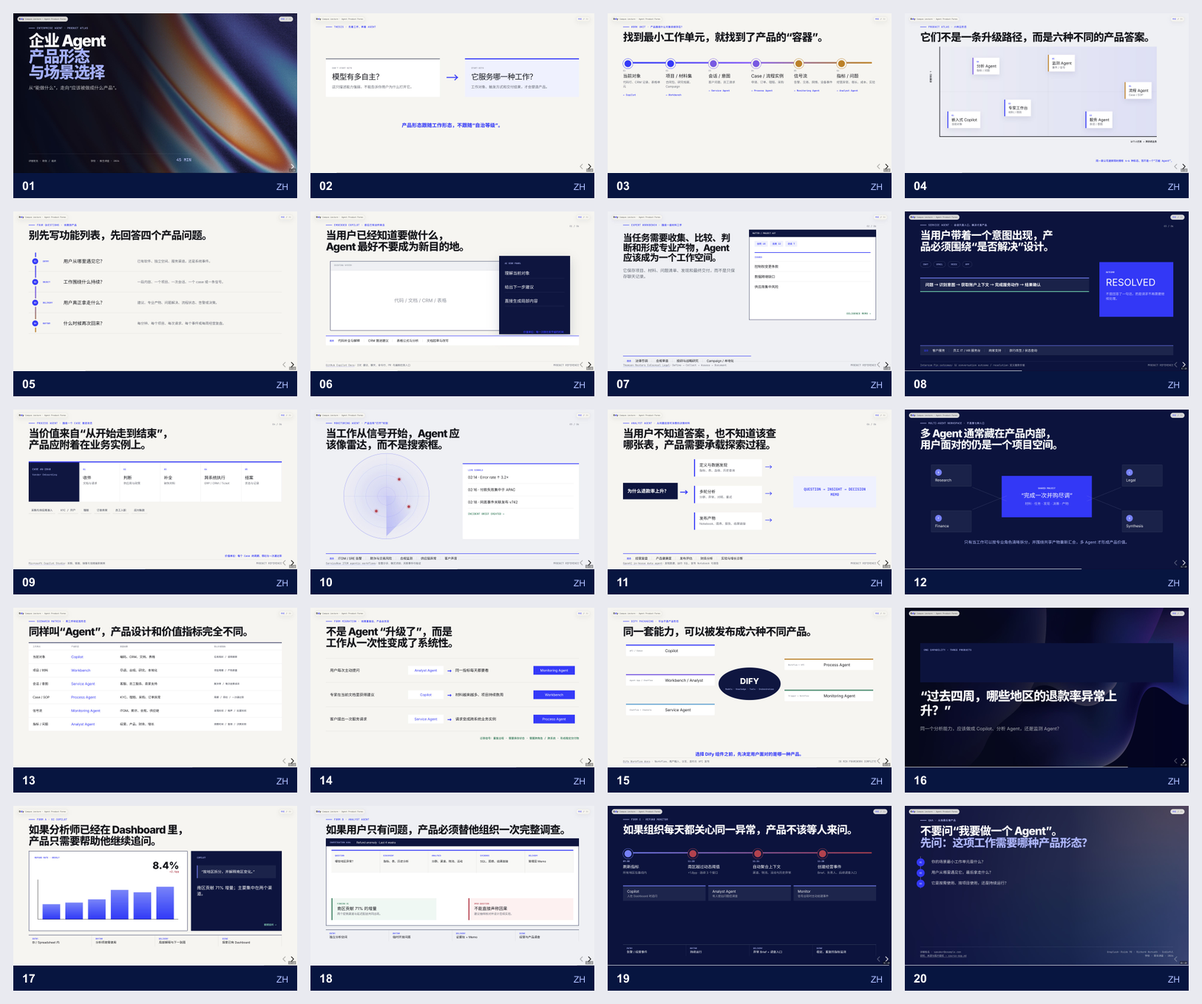
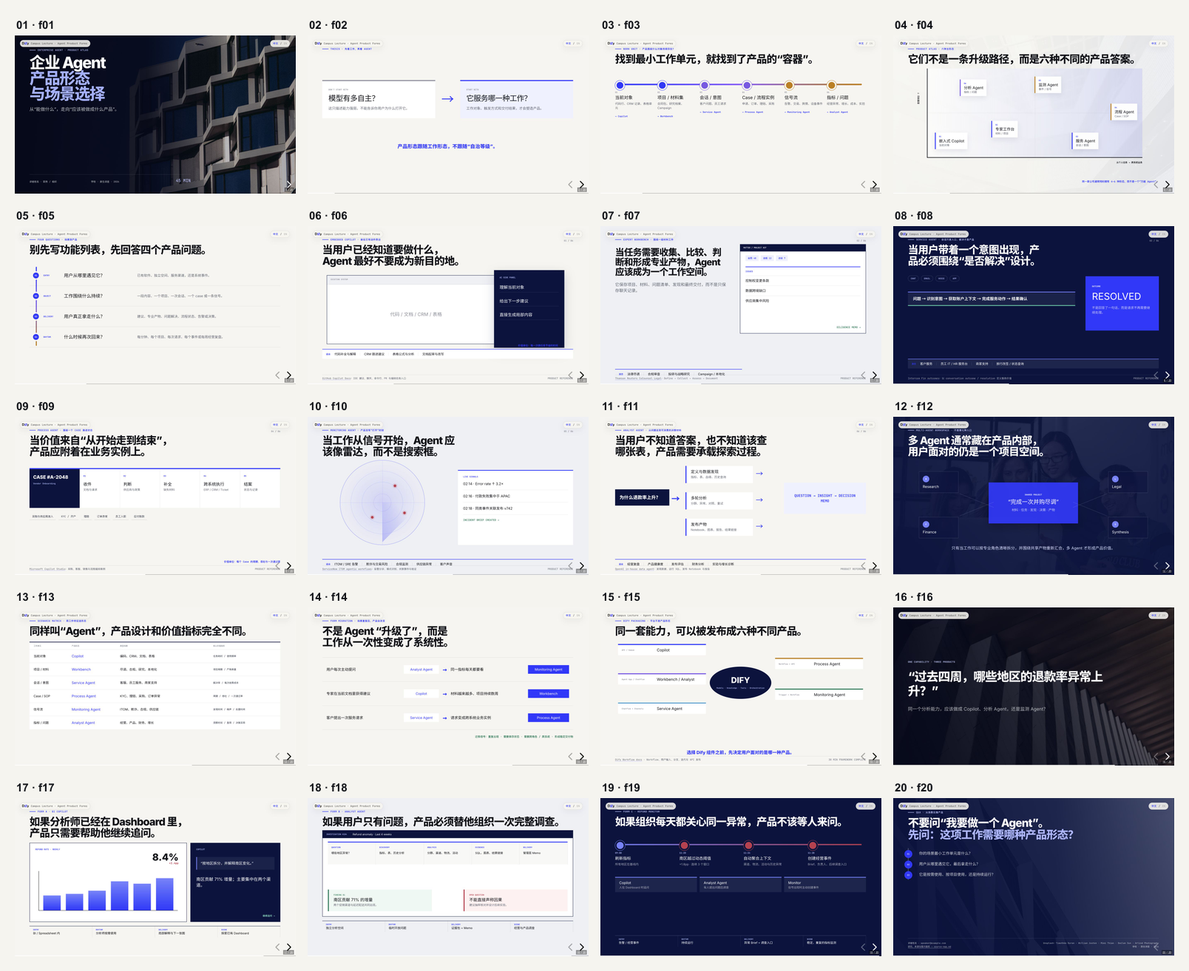
Refresh enterprise agent deck backgrounds

diff --git a/enterprise-agent-campus/styles.css b/enterprise-agent-campus/styles.css
@@ -2,13 +2,13 @@
 *{box-sizing:border-box}html,body{width:100%;height:100%;margin:0;overflow:hidden;background:var(--paper)}body{font-family:var(--sans);-webkit-font-smoothing:antialiased;text-rendering:optimizeLegibility}a{color:inherit}.deck-brand,.lang-switch{position:fixed;z-index:40;top:22px;display:flex;align-items:center;gap:10px;border:1px solid rgba(17,19,24,.12);border-radius:999px;background:rgba(246,245,240,.88);box-shadow:0 8px 30px rgba(7,21,64,.06);backdrop-filter:blur(16px);font:600 12px/1 var(--mono);letter-spacing:.035em;color:rgba(17,19,24,.64)}.deck-brand{left:28px;padding:8px 13px 8px 10px}.deck-brand img{width:32px;height:16px;object-fit:contain}.lang-switch{right:28px;padding:10px 13px}.lang-switch a{text-decoration:none;opacity:.45}.lang-switch a.active{opacity:1;color:var(--blue)}
 .reveal{color:var(--ink);font-family:var(--sans)}.reveal .slides{text-align:left}.reveal .slides section{width:1920px;height:1080px;padding:var(--top) var(--x) var(--bottom);overflow:hidden;background:var(--paper)}.reveal h1,.reveal h2,.reveal p,.reveal blockquote{margin:0;color:inherit;font-family:var(--sans);text-transform:none;text-shadow:none}.reveal h1{font-size:108px;line-height:.99;font-weight:800;letter-spacing:-.052em}.reveal h2{max-width:1660px;font-size:72px;line-height:1.06;font-weight:780;letter-spacing:-.043em;text-wrap:balance}.reveal p{font-size:28px;line-height:1.46}.reveal small{font-size:inherit}.reveal .fragment{will-change:opacity,transform}.reveal .fragment.fade-up{transform:translateY(18px)}.reveal .fragment.fade-up.visible{transform:none}.eyebrow{display:flex;align-items:center;gap:14px;margin-bottom:23px;color:var(--blue);font:700 16px/1 var(--mono);letter-spacing:.075em;text-transform:uppercase}.eyebrow:before{content:"";width:42px;height:3px;background:currentColor}.eyebrow.on-dark{color:#b9c5ff}.form-index{position:absolute;right:104px;top:92px;color:var(--quiet);font:700 15px/1 var(--mono)}.form-index.on-dark{color:rgba(255,255,255,.55)}.source-bar{position:absolute;left:var(--x);right:var(--x);bottom:29px;display:flex;align-items:center;justify-content:space-between;gap:28px;padding-top:12px;border-top:1px solid var(--line);color:#747b87;font:500 17px/1.35 var(--mono)}.source-bar span:first-child{max-width:1440px}.source-bar a{text-underline-offset:4px;text-decoration-color:rgba(20,60,255,.35)}.dark-source{border-color:rgba(255,255,255,.18);color:rgba(255,255,255,.55)}.photo-bg{position:absolute;inset:0;width:100%;height:100%;object-fit:cover}.form-kpi{position:absolute;right:104px;bottom:82px;color:var(--blue);font:700 17px/1 var(--mono)}
 /* cover */
-.cover-slide{padding:0!important;background:#04091b!important;color:white}.cover-slide .photo-bg{object-position:57% center;filter:saturate(.88) contrast(1.06)}.cover-shade{position:absolute;inset:0;background:linear-gradient(90deg,rgba(4,8,25,.99) 0%,rgba(4,8,25,.92) 45%,rgba(4,8,25,.22) 78%,rgba(4,8,25,.32) 100%)}.cover-copy{position:relative;z-index:2;height:100%;padding:92px 104px 70px;display:flex;flex-direction:column;justify-content:space-between}.cover-copy h1{width:1080px}.cover-copy h1 span{color:#9fb1ff}.cover-copy>div>p{width:850px;margin-top:30px;color:rgba(255,255,255,.74);font-size:31px}.cover-meta{display:grid;grid-template-columns:420px 420px 1fr;align-items:end;width:1100px;padding-top:22px;border-top:1px solid rgba(255,255,255,.23);color:rgba(255,255,255,.64);font:500 16px/1.4 var(--mono)}.cover-meta b{color:#b9c5ff;font-size:28px;text-align:right}
+.cover-slide{padding:0!important;background:#04091b!important;color:white}.cover-slide .photo-bg{object-position:50% 56%;filter:saturate(.82) contrast(1.08)}.cover-shade{position:absolute;inset:0;background:linear-gradient(90deg,rgba(4,8,25,.99) 0%,rgba(4,8,25,.91) 47%,rgba(4,8,25,.28) 76%,rgba(4,8,25,.35) 100%)}.cover-copy{position:relative;z-index:2;height:100%;padding:92px 104px 70px;display:flex;flex-direction:column;justify-content:space-between}.cover-copy h1{width:1080px}.cover-copy h1 span{color:#9fb1ff}.cover-copy>div>p{width:850px;margin-top:30px;color:rgba(255,255,255,.74);font-size:31px}.cover-meta{display:grid;grid-template-columns:420px 420px 1fr;align-items:end;width:1100px;padding-top:22px;border-top:1px solid rgba(255,255,255,.23);color:rgba(255,255,255,.64);font:500 16px/1.4 var(--mono)}.cover-meta b{color:#b9c5ff;font-size:28px;text-align:right}
 /* 02 */
 .form-thesis{display:grid;grid-template-columns:1fr 170px 1fr;align-items:center;height:560px;margin-top:55px}.thesis-left,.thesis-right{padding:50px 42px;border-top:7px solid var(--quiet);background:white}.thesis-right{border-color:var(--blue);background:#eef1ff}.form-thesis small{color:var(--quiet);font:700 14px/1 var(--mono)}.form-thesis strong{display:block;margin-top:24px;font-size:51px;line-height:1.08;letter-spacing:-.035em}.form-thesis p{margin-top:24px;color:var(--muted);font-size:24px}.thesis-arrow{color:var(--blue);font-size:86px;text-align:center}.thesis-verdict{margin-top:25px;color:var(--blue);font-size:34px;font-weight:750;text-align:center}
 /* 03 */
 .unit-spine{position:relative;display:grid;grid-template-columns:repeat(6,1fr);gap:22px;margin-top:92px}.unit-line{position:absolute;left:28px;right:28px;top:38px;height:10px;border-radius:999px;background:linear-gradient(90deg,var(--blue),#8758ff,var(--amber))}.unit{position:relative;padding-top:88px}.unit:before{content:"";position:absolute;left:0;top:16px;width:46px;height:46px;border:10px solid var(--paper);border-radius:50%;background:var(--blue);box-shadow:0 0 0 2px var(--blue)}.unit:nth-of-type(4):before,.unit:nth-of-type(5):before{background:#7758e8;box-shadow:0 0 0 2px #7758e8}.unit:nth-of-type(6):before,.unit:nth-of-type(7):before{background:var(--amber);box-shadow:0 0 0 2px var(--amber)}.unit span{color:var(--quiet);font:700 14px/1 var(--mono)}.unit strong{display:block;margin-top:13px;font-size:30px}.unit p{margin-top:13px;color:var(--muted);font-size:20px}.unit b{display:block;margin-top:32px;color:var(--blue);font:700 16px/1.3 var(--mono)}
 /* 04 */
-.atlas-slide{background:#eef0f4!important}.atlas-map{position:relative;width:1470px;height:610px;margin:26px 0 0 130px;border-left:4px solid var(--ink);border-bottom:4px solid var(--ink);background:linear-gradient(90deg,rgba(20,60,255,.02),rgba(20,60,255,.09))}.atlas-map:before,.atlas-map:after{content:"";position:absolute;background:rgba(17,19,24,.1)}.atlas-map:before{left:0;right:0;top:50%;height:1px}.atlas-map:after{top:0;bottom:0;left:50%;width:1px}.atlas-axis{position:absolute;font:700 15px/1 var(--mono)}.atlas-axis.y{left:-70px;top:165px;writing-mode:vertical-rl;transform:rotate(180deg)}.atlas-axis.x{right:0;bottom:-43px}.atlas-dot{position:absolute;padding:18px 22px;border-left:6px solid var(--blue);background:white;box-shadow:0 14px 35px rgba(7,21,64,.09)}.atlas-dot span{color:var(--blue);font:700 13px/1 var(--mono)}.atlas-dot strong{display:block;margin-top:10px;font-size:26px}.atlas-dot small{display:block;margin-top:7px;color:var(--muted);font-size:18px}.ad1{left:50px;bottom:55px}.ad2{left:435px;bottom:135px}.ad3{right:300px;bottom:55px}.ad4{right:35px;top:240px;border-color:var(--amber)}.ad5{left:730px;top:55px;border-color:var(--amber)}.ad6{left:220px;top:75px;border-color:#7758e8}.atlas-note{position:absolute;right:104px;bottom:74px;color:var(--blue);font:700 17px/1 var(--mono)}
+.atlas-slide{background:#eef0f4!important}.atlas-photo{object-position:center 42%;filter:grayscale(.2) saturate(.62) contrast(.96);opacity:.3}.atlas-veil{position:absolute;inset:0;background:linear-gradient(90deg,rgba(247,246,242,.97) 0%,rgba(247,246,242,.9) 50%,rgba(238,240,244,.78) 100%)}.atlas-slide>*:not(.atlas-photo):not(.atlas-veil){position:relative;z-index:2}.atlas-map{position:relative;width:1470px;height:610px;margin:26px 0 0 130px;border-left:4px solid var(--ink);border-bottom:4px solid var(--ink);background:linear-gradient(90deg,rgba(255,255,255,.66),rgba(20,60,255,.11));backdrop-filter:blur(5px)}.atlas-map:before,.atlas-map:after{content:"";position:absolute;background:rgba(17,19,24,.1)}.atlas-map:before{left:0;right:0;top:50%;height:1px}.atlas-map:after{top:0;bottom:0;left:50%;width:1px}.atlas-axis{position:absolute;font:700 15px/1 var(--mono)}.atlas-axis.y{left:-70px;top:165px;writing-mode:vertical-rl;transform:rotate(180deg)}.atlas-axis.x{right:0;bottom:-43px}.atlas-dot{position:absolute;padding:18px 22px;border-left:6px solid var(--blue);background:rgba(255,255,255,.94);box-shadow:0 14px 35px rgba(7,21,64,.09)}.atlas-dot span{color:var(--blue);font:700 13px/1 var(--mono)}.atlas-dot strong{display:block;margin-top:10px;font-size:26px}.atlas-dot small{display:block;margin-top:7px;color:var(--muted);font-size:18px}.ad1{left:50px;bottom:55px}.ad2{left:435px;bottom:135px}.ad3{right:300px;bottom:55px}.ad4{right:35px;top:240px;border-color:var(--amber)}.ad5{left:730px;top:55px;border-color:var(--amber)}.ad6{left:220px;top:75px;border-color:#7758e8}.atlas-note{position:absolute!important;right:104px;bottom:74px;color:var(--blue);font:700 17px/1 var(--mono)}
 /* 05 */
 .question-route{position:relative;margin-top:68px}.route-line{position:absolute;left:43px;top:10px;bottom:10px;width:7px;border-radius:7px;background:linear-gradient(var(--blue),#7758e8,var(--amber))}.route-q{position:relative;display:grid;grid-template-columns:80px 140px 500px 1fr;align-items:center;min-height:140px;padding-left:15px;border-bottom:1px solid var(--line)}.route-q>span{position:relative;z-index:2;display:grid;place-items:center;width:58px;height:58px;border:9px solid var(--paper);border-radius:50%;background:var(--blue);color:white;font:700 14px/1 var(--mono)}.route-q small{color:var(--blue);font:700 14px/1 var(--mono)}.route-q strong{font-size:31px}.route-q p{color:var(--muted);font-size:23px}
 /* shared ribbons */
@@ -26,7 +26,7 @@
 /* 11 */
 .analysis-tree{position:relative;height:560px;margin-top:35px}.analysis-question{position:absolute;left:0;top:185px;width:370px;padding:40px 30px;background:var(--navy);color:white;font-size:31px;font-weight:740}.analysis-question:after{content:"→";position:absolute;right:-72px;top:35px;color:var(--blue);font-size:58px}.branch{position:absolute;left:480px;width:460px;padding:26px 30px;border-left:7px solid var(--blue);background:white}.branch strong{font-size:27px}.branch p{margin-top:9px;color:var(--muted);font-size:20px}.b1{top:25px}.b2{top:205px}.b3{top:385px}.branch:after{content:"→";position:absolute;right:-70px;top:28px;color:var(--blue);font-size:50px}.analysis-delivery{position:absolute;right:0;top:140px;width:560px;padding:70px 40px;background:#eef1ff;color:var(--blue);font:800 24px/1.5 var(--mono);text-align:center}.analyst-scenes{bottom:42px;background:transparent}
 /* 12 */
-.multi-slide{background:var(--navy)!important;color:white}.multi-slide h2{color:white}.project-room{position:relative;height:590px;margin-top:18px}.shared-artifact{position:absolute;left:50%;top:155px;width:610px;height:280px;transform:translateX(-50%);display:flex;flex-direction:column;justify-content:center;padding:48px;background:var(--blue);text-align:center}.shared-artifact small{font:700 14px/1 var(--mono)}.shared-artifact strong{margin-top:22px;font-size:39px}.shared-artifact p{margin-top:20px;color:rgba(255,255,255,.72);font-size:22px}.role{position:absolute;width:270px;padding:28px 25px;border:1px solid rgba(255,255,255,.24);background:rgba(255,255,255,.06)}.role span{display:grid;place-items:center;width:45px;height:45px;border-radius:50%;background:#6f83ff;font:700 15px/1 var(--mono)}.role strong{display:block;margin-top:17px;font-size:25px}.rr1{left:75px;top:80px}.rr2{right:75px;top:80px}.rr3{left:75px;bottom:55px}.rr4{right:75px;bottom:55px}.role:after{content:"";position:absolute;width:250px;height:1px;background:rgba(255,255,255,.32)}.rr1:after{right:-250px;bottom:-55px;transform:rotate(22deg)}.rr2:after{left:-250px;bottom:-55px;transform:rotate(-22deg)}.rr3:after{right:-250px;top:-55px;transform:rotate(-22deg)}.rr4:after{left:-250px;top:-55px;transform:rotate(22deg)}.multi-rule{color:#aebeff;font-size:27px;text-align:center}
+.multi-slide{background:var(--navy)!important;color:white}.multi-photo{object-position:center 44%;filter:grayscale(.15) saturate(.72) contrast(1.06)}.multi-shade{position:absolute;inset:0;background:linear-gradient(90deg,rgba(7,21,64,.95),rgba(7,21,64,.84) 48%,rgba(7,21,64,.9)),linear-gradient(0deg,rgba(7,21,64,.7),rgba(7,21,64,.18))}.multi-slide>*:not(.multi-photo):not(.multi-shade){position:relative;z-index:2}.multi-slide h2{color:white}.project-room{position:relative;height:590px;margin-top:18px}.shared-artifact{position:absolute;left:50%;top:155px;width:610px;height:280px;transform:translateX(-50%);display:flex;flex-direction:column;justify-content:center;padding:48px;background:rgba(20,60,255,.92);box-shadow:0 24px 60px rgba(0,0,0,.24);text-align:center;backdrop-filter:blur(7px)}.shared-artifact small{font:700 14px/1 var(--mono)}.shared-artifact strong{margin-top:22px;font-size:39px}.shared-artifact p{margin-top:20px;color:rgba(255,255,255,.72);font-size:22px}.role{position:absolute;width:270px;padding:28px 25px;border:1px solid rgba(255,255,255,.3);background:rgba(7,21,64,.62);backdrop-filter:blur(10px)}.role span{display:grid;place-items:center;width:45px;height:45px;border-radius:50%;background:#6f83ff;font:700 15px/1 var(--mono)}.role strong{display:block;margin-top:17px;font-size:25px}.rr1{left:75px;top:80px}.rr2{right:75px;top:80px}.rr3{left:75px;bottom:55px}.rr4{right:75px;bottom:55px}.role:after{content:"";position:absolute;width:250px;height:1px;background:rgba(255,255,255,.32)}.rr1:after{right:-250px;bottom:-55px;transform:rotate(22deg)}.rr2:after{left:-250px;bottom:-55px;transform:rotate(-22deg)}.rr3:after{right:-250px;top:-55px;transform:rotate(-22deg)}.rr4:after{left:-250px;top:-55px;transform:rotate(22deg)}.multi-rule{color:#d7deff;font-size:27px;text-align:center}
 /* 13 */
 .form-matrix{margin-top:35px;border-top:4px solid var(--navy);background:white}.fm-head,.fm-row{display:grid;grid-template-columns:260px 330px 1fr 430px;align-items:center;padding:0 28px}.fm-head{height:48px;color:var(--quiet);font:700 13px/1 var(--mono)}.fm-row{min-height:91px;border-top:1px solid var(--line)}.fm-row b{font-size:21px}.fm-row strong{color:var(--blue);font-size:24px}.fm-row p{font-size:21px}.fm-row em{color:var(--muted);font:600 16px/1.25 var(--mono);font-style:normal}
 /* 14 */
@@ -34,7 +34,7 @@
 /* 15 */
 .dify-metro{position:relative;height:590px;margin-top:20px}.dify-core{position:absolute;left:50%;top:185px;width:420px;height:220px;transform:translateX(-50%);display:flex;flex-direction:column;justify-content:center;border-radius:50%;background:var(--navy);color:white;font-size:55px;font-weight:800;text-align:center}.dify-core small{margin-top:18px;color:#aebeff;font:600 13px/1.4 var(--mono)}.metro-line{position:absolute;display:grid;grid-template-columns:240px 1fr;align-items:center;width:600px;padding:22px 25px;border-top:7px solid var(--blue);background:white}.metro-line span{color:var(--quiet);font:700 13px/1.2 var(--mono)}.metro-line strong{font-size:26px}.ml1{left:20px;top:30px}.ml2{left:20px;top:230px}.ml3{left:20px;top:430px}.ml4{right:20px;top:125px}.ml5{right:20px;top:335px}.ml2{border-color:#7758e8}.ml3{border-color:#43a6d4}.ml4{border-color:var(--amber)}.ml5{border-color:var(--green)}.packaging-verdict{position:absolute;left:50%;bottom:75px;transform:translateX(-50%);color:var(--blue);font-size:30px;font-weight:740;white-space:nowrap}
 /* 16 */
-.case-cover{padding:0!important;background:#05091b!important;color:white}.case-cover .photo-bg{filter:saturate(.82) contrast(1.08)}.case-shade{position:absolute;inset:0;background:linear-gradient(90deg,rgba(5,9,27,.98),rgba(5,9,27,.76) 65%,rgba(5,9,27,.38))}.case-copy{position:relative;z-index:2;height:100%;padding:120px 104px;display:flex;flex-direction:column;justify-content:center}.case-label{color:#aebeff;font:700 16px/1 var(--mono);letter-spacing:.05em}.case-copy blockquote{width:1500px;margin-top:44px;font-size:84px;line-height:1.16;font-weight:760;letter-spacing:-.045em}.case-copy p{margin-top:52px;color:rgba(255,255,255,.68);font-size:31px}
+.case-cover{padding:0!important;background:#05091b!important;color:white}.case-cover .photo-bg{object-position:center 54%;filter:saturate(.7) contrast(1.08)}.case-shade{position:absolute;inset:0;background:linear-gradient(90deg,rgba(5,9,27,.98),rgba(5,9,27,.78) 62%,rgba(5,9,27,.42)),linear-gradient(0deg,rgba(5,9,27,.45),transparent)}.case-copy{position:relative;z-index:2;height:100%;padding:120px 104px;display:flex;flex-direction:column;justify-content:center}.case-copy .case-label{min-height:0;padding:0;border:0;background:transparent;color:#c3ceff;font:700 16px/1 var(--mono);letter-spacing:.05em}.case-copy blockquote{width:1500px;margin-top:44px;font-size:84px;line-height:1.16;font-weight:760;letter-spacing:-.045em}.case-copy p{margin-top:52px;color:rgba(255,255,255,.7);font-size:31px}
 /* 17 */
 .bi-shell{display:grid;grid-template-columns:1.4fr .8fr;gap:24px;height:540px;margin-top:30px}.dashboard,.bi-copilot{position:relative;padding:34px 38px;border:2px solid var(--navy);background:white}.dashboard>small,.bi-copilot>small{color:var(--blue);font:700 14px/1 var(--mono)}.chart{position:absolute;left:60px;right:60px;bottom:75px;height:270px;display:flex;align-items:end;gap:35px;border-left:2px solid var(--ink);border-bottom:2px solid var(--ink);padding:0 30px}.chart i{flex:1;height:var(--h);background:linear-gradient(var(--blue2),var(--blue))}.dash-metric{position:absolute;right:55px;top:62px;font-size:66px;font-weight:800}.dash-metric span{display:block;color:var(--red);font:700 18px/1 var(--mono);text-align:right}.bi-copilot{background:var(--navy);color:white}.bi-copilot small{color:#aebeff}.bi-copilot p{margin-top:45px;padding:25px;border-left:5px solid #6e82ff;background:rgba(255,255,255,.06);font-size:25px}.bi-copilot strong{display:block;margin-top:45px;font-size:29px;line-height:1.4}.bi-copilot div{position:absolute;right:35px;bottom:32px;color:#74e3bf;font:700 16px/1 var(--mono)}.product-spec{display:grid;grid-template-columns:repeat(4,1fr);margin-top:28px;border-top:2px solid var(--navy)}.product-spec span{padding:17px 25px;border-right:1px solid var(--line);font-size:20px}.product-spec small{display:block;margin-bottom:8px;color:var(--blue);font:700 13px/1 var(--mono)}
 /* 18 */
@@ -42,5 +42,5 @@
 /* 19 */
 .monitor-case-slide{background:var(--navy)!important;color:white}.monitor-case-slide h2{color:white}.monitor-timeline{position:relative;display:grid;grid-template-columns:repeat(4,1fr);gap:42px;margin-top:72px}.timeline-line{position:absolute;left:30px;right:30px;top:42px;height:8px;background:linear-gradient(90deg,#6f83ff,var(--red))}.time-event{position:relative;padding-top:95px}.time-event:before{content:"";position:absolute;left:0;top:18px;width:48px;height:48px;border:10px solid var(--navy);border-radius:50%;background:#6f83ff;box-shadow:0 0 0 2px #6f83ff}.time-event:nth-of-type(n+3):before{background:var(--red);box-shadow:0 0 0 2px var(--red)}.time-event span{color:#aebeff;font:700 15px/1 var(--mono)}.time-event strong{display:block;margin-top:16px;font-size:27px}.time-event p{margin-top:12px;color:rgba(255,255,255,.62);font-size:20px}.three-form-compare{display:grid;grid-template-columns:repeat(3,1fr);gap:18px;margin-top:72px}.three-form-compare div{padding:23px 28px;border-top:5px solid #6f83ff;background:rgba(255,255,255,.07)}.three-form-compare b{font-size:24px}.three-form-compare span{display:block;margin-top:10px;color:rgba(255,255,255,.62);font-size:19px}.dark-spec{position:absolute;left:104px;right:104px;bottom:65px;border-color:rgba(255,255,255,.22)}.dark-spec span{border-color:rgba(255,255,255,.15)}.dark-spec small{color:#aebeff}
 /* 20 */
-.closing-slide{padding:0!important;background:var(--navy)!important;color:white}.closing-slide .photo-bg{filter:saturate(.7)}.closing-shade{position:absolute;inset:0;background:linear-gradient(90deg,rgba(7,21,64,.98),rgba(7,21,64,.9) 58%,rgba(7,21,64,.68))}.closing-copy{position:relative;z-index:2;height:100%;padding:90px 104px 64px}.closing-copy h2{color:white;max-width:1600px;font-size:76px}.closing-copy h2 span{color:#a9b8ff}.question-path{margin-top:52px;width:1300px;border-left:4px solid rgba(255,255,255,.3)}.question-path p{position:relative;padding:17px 0 17px 72px;color:rgba(255,255,255,.82);font-size:26px}.question-path p b{position:absolute;left:-28px;top:13px;display:grid;place-items:center;width:54px;height:54px;border-radius:50%;background:var(--blue);font:700 14px/1 var(--mono)}.closing-meta{position:absolute;left:104px;right:104px;bottom:54px;display:grid;grid-template-columns:1fr 1fr;padding-top:20px;border-top:1px solid rgba(255,255,255,.24)}.closing-meta p{color:rgba(255,255,255,.56);font:500 16px/1.6 var(--mono)}.closing-meta p:last-child{text-align:right}.closing-meta a{text-underline-offset:4px}
+.closing-slide{padding:0!important;background:var(--navy)!important;color:white}.closing-slide .photo-bg{object-position:center 46%;filter:saturate(.58) contrast(1.05)}.closing-shade{position:absolute;inset:0;background:linear-gradient(90deg,rgba(7,21,64,.98),rgba(7,21,64,.91) 58%,rgba(7,21,64,.7)),linear-gradient(0deg,rgba(7,21,64,.36),rgba(7,21,64,.08))}.closing-copy{position:relative;z-index:2;height:100%;padding:90px 104px 64px}.closing-copy h2{color:white;max-width:1600px;font-size:76px}.closing-copy h2 span{color:#a9b8ff}.question-path{margin-top:52px;width:1300px;border-left:4px solid rgba(255,255,255,.3)}.question-path p{position:relative;padding:17px 0 17px 72px;color:rgba(255,255,255,.82);font-size:26px}.question-path p b{position:absolute;left:-28px;top:13px;display:grid;place-items:center;width:54px;height:54px;border-radius:50%;background:var(--blue);font:700 14px/1 var(--mono)}.closing-meta{position:absolute;left:104px;right:104px;bottom:54px;display:grid;grid-template-columns:1fr 1fr;padding-top:20px;border-top:1px solid rgba(255,255,255,.24)}.closing-meta p{color:rgba(255,255,255,.58);font:500 15px/1.6 var(--mono)}.closing-meta p:last-child{text-align:right}.closing-meta a{text-underline-offset:4px}
 @media print{.deck-brand,.lang-switch{display:none!important}.reveal .fragment{opacity:1!important;visibility:visible!important;transform:none!important}.reveal .slides section.pdf-page{page-break-after:always}}@media(prefers-reduced-motion:reduce){.reveal .fragment{transition:none!important;transform:none!important}.reveal .slides section{transition:none!important}}

diff --git a/enterprise-agent-campus/index_en.html b/enterprise-agent-campus/index_en.html
@@ -3,14 +3,14 @@
 <head>
   <meta charset="utf-8"><meta name="viewport" content="width=device-width, initial-scale=1.0, maximum-scale=1.0, user-scalable=no"><title>Enterprise Agents: Product Forms and Scenario Fit — Dify</title>
   <link rel="icon" href="../assets/logo.svg" type="image/svg+xml"><link rel="stylesheet" href="https://cdn.jsdelivr.net/npm/reveal.js@4.5.0/dist/reset.css"><link rel="stylesheet" href="https://cdn.jsdelivr.net/npm/reveal.js@4.5.0/dist/reveal.css">
-  <link rel="preconnect" href="https://fonts.googleapis.com"><link rel="preconnect" href="https://fonts.gstatic.com" crossorigin><link href="https://fonts.googleapis.com/css2?family=Inter:wght@400;500;600;700;800&amp;family=Noto+Sans+SC:wght@400;500;600;700;800&amp;family=JetBrains+Mono:wght@400;500;600;700&amp;display=swap" rel="stylesheet"><link rel="stylesheet" href="styles.css?v=20260826-forms">
+  <link rel="preconnect" href="https://fonts.googleapis.com"><link rel="preconnect" href="https://fonts.gstatic.com" crossorigin><link href="https://fonts.googleapis.com/css2?family=Inter:wght@400;500;600;700;800&amp;family=Noto+Sans+SC:wght@400;500;600;700;800&amp;family=JetBrains+Mono:wght@400;500;600;700&amp;display=swap" rel="stylesheet"><link rel="stylesheet" href="styles.css?v=20260826-backgrounds2">
 </head>
 <body>
   <div class="deck-brand"><img src="../assets/logo.svg" alt="Dify"><span>Campus Lecture · Agent Product Forms</span></div><div class="lang-switch"><a href="index.html">中文</a><span>/</span><a class="active" href="index_en.html">EN</a></div>
   <div class="reveal"><div class="slides">
 
     <section class="cover-slide" data-slide-id="f01-cover">
-      <img class="photo-bg" src="assets/atmos-silk-ruido98.jpg" alt="Abstract blue and orange light by Ruido 98 on Unsplash"><div class="cover-shade"></div><div class="cover-copy"><div><div class="eyebrow on-dark">Enterprise Agent · Product Atlas</div><h1>Enterprise Agents<br><span>Product Forms<br>&amp; Scenario Fit</span></h1><p>Move from “what can it do?” to “what product should it become?”</p></div><div class="cover-meta"><span>Speaker Name · Role / Organization</span><span>University · New Student Lecture · 2026</span><b>45 MIN</b></div></div>
+      <img class="photo-bg" src="assets/bg-enterprise-grid-timothee-duran.jpg" alt="Deep blue sky and geometric office building by Timothée Duran on Unsplash"><div class="cover-shade"></div><div class="cover-copy"><div><div class="eyebrow on-dark">Enterprise Agent · Product Atlas</div><h1>Enterprise Agents<br><span>Product Forms<br>&amp; Scenario Fit</span></h1><p>Move from “what can it do?” to “what product should it become?”</p></div><div class="cover-meta"><span>Speaker Name · Role / Organization</span><span>University · New Student Lecture · 2026</span><b>45 MIN</b></div></div>
       <aside class="notes">Time 0:30. Core delivery: start not with models, tool calls, or governance features, but with the product forms emerging inside enterprises and the work each form fits. Term: product form combines entry point, work object, deliverable, and usage rhythm. Transition: begin with the lecture's central claim. Evidence boundary: the six forms are a teaching taxonomy, not the only industry taxonomy.</aside>
     </section>
 
@@ -26,6 +26,7 @@
     </section>
 
     <section class="atlas-slide" data-slide-id="f04-product-atlas">
+      <img class="photo-bg atlas-photo" src="assets/bg-atrium-willian-justen.jpg" alt="Modern atrium grid by Willian Justen de Vasconcellos on Unsplash"><div class="atlas-veil"></div>
       <div class="eyebrow">Product Atlas · Six Primary Forms</div><h2>They are not an upgrade path. They are six different product answers.</h2>
       <div class="atlas-map"><div class="atlas-axis y">Continuous operation ↑</div><div class="atlas-axis x">Individual task → Cross-system business</div><div class="atlas-dot ad1"><span>01</span><strong>Embedded Copilot</strong><small>Current object</small></div><div class="atlas-dot ad2 fragment fade-up" data-fragment-index="0"><span>02</span><strong>Expert Workbench</strong><small>Project / corpus</small></div><div class="atlas-dot ad3 fragment fade-up" data-fragment-index="1"><span>03</span><strong>Service Agent</strong><small>Conversation / intent</small></div><div class="atlas-dot ad4 fragment fade-up" data-fragment-index="1"><span>04</span><strong>Process Agent</strong><small>Case / SOP</small></div><div class="atlas-dot ad5 fragment fade-up" data-fragment-index="2"><span>05</span><strong>Monitoring Agent</strong><small>Event / signal</small></div><div class="atlas-dot ad6 fragment fade-up" data-fragment-index="2"><span>06</span><strong>Analyst Agent</strong><small>Metric / question</small></div></div><div class="atlas-note">One company usually needs four to six forms—not one universal agent.</div>
       <aside class="notes">Time 2:30. Core delivery: the horizontal axis moves from an individual's current task to cross-system business; the vertical axis moves from on-demand use to continuous operation. Position is not maturity. Term: primary form is the entry point and work container users perceive first. Transition: use four questions to select a form. Evidence boundary: the map is qualitative, not market share or a maturity score.</aside>
@@ -79,6 +80,7 @@
     </section>
 
     <section class="multi-slide" data-slide-id="f12-multi-agent">
+      <img class="photo-bg multi-photo" src="assets/bg-collaboration-mimi-thian.jpg" alt="Team collaborating around a laptop by Mimi Thian on Unsplash"><div class="multi-shade"></div>
       <div class="eyebrow on-dark">Multi-Agent Workspace · Not a Seventh Entry Point</div><h2>Multiple agents usually sit inside the product. Users still face one project space.</h2>
       <div class="project-room"><div class="shared-artifact"><small>SHARED PROJECT</small><strong>“Complete an M&amp;A diligence”</strong><p>Corpus · Tasks · Findings · Decisions · Deliverable</p></div><div class="role rr1 fragment fade-up" data-fragment-index="0"><span>R</span><strong>Research</strong></div><div class="role rr2 fragment fade-up" data-fragment-index="0"><span>L</span><strong>Legal</strong></div><div class="role rr3 fragment fade-up" data-fragment-index="1"><span>F</span><strong>Finance</strong></div><div class="role rr4 fragment fade-up" data-fragment-index="1"><span>S</span><strong>Synthesis</strong></div></div><div class="multi-rule">Multi-agent creates product value only when work decomposes cleanly by specialty and rejoins around a shared artifact.</div>
       <aside class="notes">Time 2:00. Core delivery: users rarely need to see several chatbots. Multi-agent is specialization inside a workbench, process product, or development space. It fits software delivery, diligence, complex research, and incident rooms. Term: a shared artifact is the project state every role updates. Transition: compress the six primary forms into one selection matrix. Evidence boundary: the space evolves rapidly; agent count is not maturity.</aside>
@@ -104,7 +106,7 @@
     </section>
 
     <section class="case-cover" data-slide-id="f16-case-brief">
-      <img class="photo-bg" src="assets/atmos-indigo-richard-horvath.jpg" alt="Abstract indigo space by Richard Horvath on Unsplash"><div class="case-shade"></div><div class="case-copy"><div class="case-label">ONE CAPABILITY · THREE PRODUCTS</div><blockquote>“Which regions saw an abnormal rise in refund rate over the last four weeks?”</blockquote><p>Should the same analytical capability become a Copilot, Analyst Agent, or Monitoring Agent?</p></div>
+      <img class="photo-bg" src="assets/bg-architecture-shadow-declan-sun.jpg" alt="Modern architectural light and repeating shadows by Declan Sun on Unsplash"><div class="case-shade"></div><div class="case-copy"><div class="case-label">ONE CAPABILITY · THREE PRODUCTS</div><blockquote>“Which regions saw an abnormal rise in refund rate over the last four weeks?”</blockquote><p>Should the same analytical capability become a Copilot, Analyst Agent, or Monitoring Agent?</p></div>
       <aside class="notes">Time 1:00. Core delivery: the case no longer demonstrates SQL or control mechanics. It compares how one capability becomes three products because usage differs. Term: productization asks when, where, and how users receive the result—not only whether the answer is possible. Transition: start with the lightest embedded copilot. Evidence boundary: a static synthetic walkthrough, not a customer case.</aside>
     </section>
 
@@ -127,7 +129,7 @@
     </section>
 
     <section class="closing-slide" data-slide-id="f20-qa">
-      <img class="photo-bg" src="assets/atmos-pastel-codioful.jpg" alt="Soft pastel gradient by Codioful on Unsplash"><div class="closing-shade"></div><div class="closing-copy"><div class="eyebrow on-dark">Q&amp;A · Infer the Product from the Scenario</div><h2>Do not say “I want to build an agent.”<br><span>Ask which product form the work requires.</span></h2><div class="question-path"><p class="fragment fade-up" data-fragment-index="0"><b>01</b> What is the smallest work unit in your scenario?</p><p class="fragment fade-up" data-fragment-index="1"><b>02</b> Where does the user meet it, and what do they take away?</p><p class="fragment fade-up" data-fragment-index="2"><b>03</b> Is it on-demand, project-based, or continuously running?</p></div><div class="closing-meta"><p>Speaker Name · speaker@example.com<br><a href="source-map.md" target="_blank">Research, sources, and image credits → source-map.md</a></p><p>Unsplash: Ruido 98 · Richard Horvath · Codioful<br>University · New Student Lecture · 2026</p></div></div>
+      <img class="photo-bg" src="assets/bg-geometric-facade-arlind.jpg" alt="Modern geometric building facade by Arlind Photography on Unsplash"><div class="closing-shade"></div><div class="closing-copy"><div class="eyebrow on-dark">Q&amp;A · Infer the Product from the Scenario</div><h2>Do not say “I want to build an agent.”<br><span>Ask which product form the work requires.</span></h2><div class="question-path"><p class="fragment fade-up" data-fragment-index="0"><b>01</b> What is the smallest work unit in your scenario?</p><p class="fragment fade-up" data-fragment-index="1"><b>02</b> Where does the user meet it, and what do they take away?</p><p class="fragment fade-up" data-fragment-index="2"><b>03</b> Is it on-demand, project-based, or continuously running?</p></div><div class="closing-meta"><p>Speaker Name · speaker@example.com<br><a href="source-map.md" target="_blank">Research, sources, and image credits → source-map.md</a></p><p>Unsplash: Timothée Duran · Willian Justen · Mimi Thian · Declan Sun · Arlind Photography<br>University · New Student Lecture · 2026</p></div></div>
       <aside class="notes">Time 5:00. Core delivery: use the three product questions to open discussion. If the room is quiet, ask for one stable work object in their discipline and classify the form. Term: scenario selection infers product from work unit, entry, delivery, and rhythm. Transition: source map is available after the talk. Evidence boundary: do not turn Q&amp;A into unverified product commitments; contact information remains placeholder text.</aside>
     </section>
 

diff --git a/enterprise-agent-campus/index.html b/enterprise-agent-campus/index.html
@@ -6,7 +6,7 @@
   <link rel="icon" href="../assets/logo.svg" type="image/svg+xml">
   <link rel="stylesheet" href="https://cdn.jsdelivr.net/npm/reveal.js@4.5.0/dist/reset.css"><link rel="stylesheet" href="https://cdn.jsdelivr.net/npm/reveal.js@4.5.0/dist/reveal.css">
   <link rel="preconnect" href="https://fonts.googleapis.com"><link rel="preconnect" href="https://fonts.gstatic.com" crossorigin><link href="https://fonts.googleapis.com/css2?family=Inter:wght@400;500;600;700;800&amp;family=Noto+Sans+SC:wght@400;500;600;700;800&amp;family=JetBrains+Mono:wght@400;500;600;700&amp;display=swap" rel="stylesheet">
-  <link rel="stylesheet" href="styles.css?v=20260826-forms">
+  <link rel="stylesheet" href="styles.css?v=20260826-backgrounds2">
 </head>
 <body>
   <div class="deck-brand"><img src="../assets/logo.svg" alt="Dify"><span>Campus Lecture · Agent Product Forms</span></div>
@@ -15,7 +15,7 @@
 
     <!-- 01 · VISUAL_SLOT: cover -->
     <section class="cover-slide" data-slide-id="f01-cover">
-      <img class="photo-bg" src="assets/atmos-silk-ruido98.jpg" alt="Ruido 98 在 Unsplash 发布的蓝橙抽象光影"><div class="cover-shade"></div>
+      <img class="photo-bg" src="assets/bg-enterprise-grid-timothee-duran.jpg" alt="Timothée Duran 在 Unsplash 发布的深蓝天空与几何办公建筑"><div class="cover-shade"></div>
       <div class="cover-copy"><div><div class="eyebrow on-dark">Enterprise Agent · Product Atlas</div><h1>企业 Agent<br><span>产品形态<br>与场景选择</span></h1><p>从“能做什么”，走向“应该被做成什么产品”。</p></div><div class="cover-meta"><span>讲者姓名 · 职务 / 组织</span><span>学校 · 新生讲座 · 2026</span><b>45 MIN</b></div></div>
       <aside class="notes">时长 0:30。核心讲法：今天不从模型、工具调用或治理功能开始，而是观察企业里已经出现的 Agent 产品形态，以及每种形态为什么适合不同工作。术语：产品形态指入口、工作对象、交付物和使用节奏的组合。过渡：先给出全场最重要的判断。证据边界：六类形态是教学分类，不是行业唯一分类。</aside>
     </section>
@@ -45,6 +45,7 @@
 
     <!-- 04 -->
     <section class="atlas-slide" data-slide-id="f04-product-atlas">
+      <img class="photo-bg atlas-photo" src="assets/bg-atrium-willian-justen.jpg" alt="Willian Justen de Vasconcellos 在 Unsplash 发布的现代中庭网格结构"><div class="atlas-veil"></div>
       <div class="eyebrow">Product Atlas · 六种主形态</div><h2>它们不是一条升级路径，而是六种不同的产品答案。</h2>
       <div class="atlas-map">
         <div class="atlas-axis y">持续运行 ↑</div><div class="atlas-axis x">从个人任务 → 跨系统业务</div>
@@ -135,6 +136,7 @@
 
     <!-- 12 -->
     <section class="multi-slide" data-slide-id="f12-multi-agent">
+      <img class="photo-bg multi-photo" src="assets/bg-collaboration-mimi-thian.jpg" alt="Mimi Thian 在 Unsplash 发布的团队围绕电脑协作场景"><div class="multi-shade"></div>
       <div class="eyebrow on-dark">Multi-Agent Workspace · 不是第七种入口</div><h2>多 Agent 通常藏在产品内部，用户面对的仍是一个项目空间。</h2>
       <div class="project-room"><div class="shared-artifact"><small>SHARED PROJECT</small><strong>“完成一次并购尽调”</strong><p>材料 · 任务 · 发现 · 决策 · 产物</p></div><div class="role rr1 fragment fade-up" data-fragment-index="0"><span>R</span><strong>Research</strong></div><div class="role rr2 fragment fade-up" data-fragment-index="0"><span>L</span><strong>Legal</strong></div><div class="role rr3 fragment fade-up" data-fragment-index="1"><span>F</span><strong>Finance</strong></div><div class="role rr4 fragment fade-up" data-fragment-index="1"><span>S</span><strong>Synthesis</strong></div></div>
       <div class="multi-rule">只有当工作可以按专业角色清晰拆分，并围绕共享产物重新汇合，多 Agent 才形成产品价值。</div>
@@ -178,7 +180,7 @@
 
     <!-- 16 · CASE_SLOT + VISUAL_SLOT -->
     <section class="case-cover" data-slide-id="f16-case-brief">
-      <img class="photo-bg" src="assets/atmos-indigo-richard-horvath.jpg" alt="Richard Horvath 在 Unsplash 发布的靛蓝抽象空间"><div class="case-shade"></div>
+      <img class="photo-bg" src="assets/bg-architecture-shadow-declan-sun.jpg" alt="Declan Sun 在 Unsplash 发布的现代建筑光影与连续结构"><div class="case-shade"></div>
       <div class="case-copy"><div class="case-label">ONE CAPABILITY · THREE PRODUCTS</div><blockquote>“过去四周，哪些地区的退款率异常上升？”</blockquote><p>同一个分析能力，应该做成 Copilot、分析 Agent，还是监测 Agent？</p></div>
       <aside class="notes">时长 1:00。核心讲法：案例不再演示 SQL 或故障控制，而是比较同一能力如何因使用场景不同变成三种产品。术语：产品化问题不是“能否回答”，而是用户在何时、从哪里、以什么方式获得答案。过渡：先看最轻的嵌入式 Copilot。证据边界：静态合成教学推演，不是真实客户案例。</aside>
     </section>
@@ -210,8 +212,8 @@
 
     <!-- 20 · VISUAL_SLOT: closing -->
     <section class="closing-slide" data-slide-id="f20-qa">
-      <img class="photo-bg" src="assets/atmos-pastel-codioful.jpg" alt="Codioful 在 Unsplash 发布的柔和渐变"><div class="closing-shade"></div>
-      <div class="closing-copy"><div class="eyebrow on-dark">Q&amp;A · 从场景反推产品</div><h2>不要问“我要做一个 Agent”。<br><span>先问：这项工作需要哪种产品形态？</span></h2><div class="question-path"><p class="fragment fade-up" data-fragment-index="0"><b>01</b> 你的场景最小工作单元是什么？</p><p class="fragment fade-up" data-fragment-index="1"><b>02</b> 用户从哪里遇见它，最后拿走什么？</p><p class="fragment fade-up" data-fragment-index="2"><b>03</b> 它是按需使用、按项目使用，还是持续运行？</p></div><div class="closing-meta"><p>讲者姓名 · speaker@example.com<br><a href="source-map.md" target="_blank">研究、来源与图片版权 → source-map.md</a></p><p>Unsplash：Ruido 98 · Richard Horvath · Codioful<br>学校 · 新生讲座 · 2026</p></div></div>
+      <img class="photo-bg" src="assets/bg-geometric-facade-arlind.jpg" alt="Arlind Photography 在 Unsplash 发布的现代建筑几何立面"><div class="closing-shade"></div>
+      <div class="closing-copy"><div class="eyebrow on-dark">Q&amp;A · 从场景反推产品</div><h2>不要问“我要做一个 Agent”。<br><span>先问：这项工作需要哪种产品形态？</span></h2><div class="question-path"><p class="fragment fade-up" data-fragment-index="0"><b>01</b> 你的场景最小工作单元是什么？</p><p class="fragment fade-up" data-fragment-index="1"><b>02</b> 用户从哪里遇见它，最后拿走什么？</p><p class="fragment fade-up" data-fragment-index="2"><b>03</b> 它是按需使用、按项目使用，还是持续运行？</p></div><div class="closing-meta"><p>讲者姓名 · speaker@example.com<br><a href="source-map.md" target="_blank">研究、来源与图片版权 → source-map.md</a></p><p>Unsplash：Timothée Duran · Willian Justen · Mimi Thian · Declan Sun · Arlind Photography<br>学校 · 新生讲座 · 2026</p></div></div>
       <aside class="notes">时长 5:00。核心讲法：用三个产品问题引导讨论。若现场安静，让同学先说出自己专业里一个稳定的工作对象，再判断对应形态。术语：场景选择是从工作单元、入口、交付和节奏反推产品。过渡：会后可查看 source map。证据边界：Q&amp;A 不扩展为未经验证的产品承诺；联系方式仍是占位符。</aside>
     </section>
 

diff --git a/enterprise-agent-campus/source-map.md b/enterprise-agent-campus/source-map.md
@@ -67,9 +67,13 @@ Multi-Agent Workspace 不作为第七种用户入口：它通常是 Workbench、
 
 | Slide | Local asset | Author and original link | Treatment |
 | --- | --- | --- | --- |
-| `f01-cover` | `assets/atmos-silk-ruido98.jpg` | [Ruido 98](https://unsplash.com/photos/SytlpdDJ1lk) | Full bleed; dark left gradient |
-| `f16-case-brief` | `assets/atmos-indigo-richard-horvath.jpg` | [Richard Horvath](https://unsplash.com/photos/_nWaeTF6qo0) | Full bleed; indigo contrast; dark overlay |
-| `f20-qa` | `assets/atmos-pastel-codioful.jpg` | [Codioful](https://unsplash.com/photos/LeG68PrXA6Y) | Full bleed; low saturation; navy overlay |
+| `f01-cover` | `assets/bg-enterprise-grid-timothee-duran.jpg` | [Timothée Duran](https://unsplash.com/photos/dcLG-6DEPiQ) | Full bleed; portrait source cropped around the blue sky and right-side facade; dark left gradient |
+| `f04-product-atlas` | `assets/bg-atrium-willian-justen.jpg` | [Willian Justen de Vasconcellos](https://unsplash.com/photos/avT9dYK-9rE) | Full bleed at low opacity; centered on the ceiling grid; warm-white veil for diagram contrast |
+| `f12-multi-agent` | `assets/bg-collaboration-mimi-thian.jpg` | [Mimi Thian](https://unsplash.com/photos/vdXMSiX-n6M) | Full bleed; centered on the group and laptop; navy overlay and blur-backed project objects |
+| `f16-case-brief` | `assets/bg-architecture-shadow-declan-sun.jpg` | [Declan Sun](https://unsplash.com/photos/n8UBJeKko3I) | Full bleed; horizontal crop follows repeating shadows; dark navy overlay |
+| `f20-qa` | `assets/bg-geometric-facade-arlind.jpg` | [Arlind Photography](https://unsplash.com/photos/qk9KT1bcj70) | Full bleed; portrait source cropped around geometric facade; low saturation and navy overlay |
+
+All five files are localized in `assets/`; the slides do not depend on network access. Each image is published on its linked page as a free Unsplash image.
 
 ## Timing contract
 

diff --git a/enterprise-agent-campus/README.md b/enterprise-agent-campus/README.md
@@ -41,7 +41,8 @@
 - 一页一个产品判断；每种形态使用不同视觉隐喻，不用卡片矩阵重复铺陈。
 - Copilot 使用 sidecar，Workbench 使用项目画布，Service 使用 outcome 波形，Process 使用 case 管线，Monitoring 使用雷达，Analyst 使用探索树。
 - Dify Blue 表示主产品路径，绿色表示交付结果，琥珀表示流程或事件，红色表示异常信号。
-- 图片仅用于封面、案例转场和结尾；正文保持暖白高对比。
+- 图片用于封面、产品地图、多 Agent 协作、案例转场和结尾；内容层统一加高对比遮罩，正文仍保持清晰的暖白 / 深蓝阅读面。
+- 氛围图以建筑秩序、协作现场和结构光影为主，不使用机器人、人形 AI 或廉价科技蓝；全部本地化并在 `source-map.md` 记录作者、原始链接与裁切方式。
 - 打印和减少动态效果模式完整呈现所有 fragment。
 
 ## 后续研究接入
